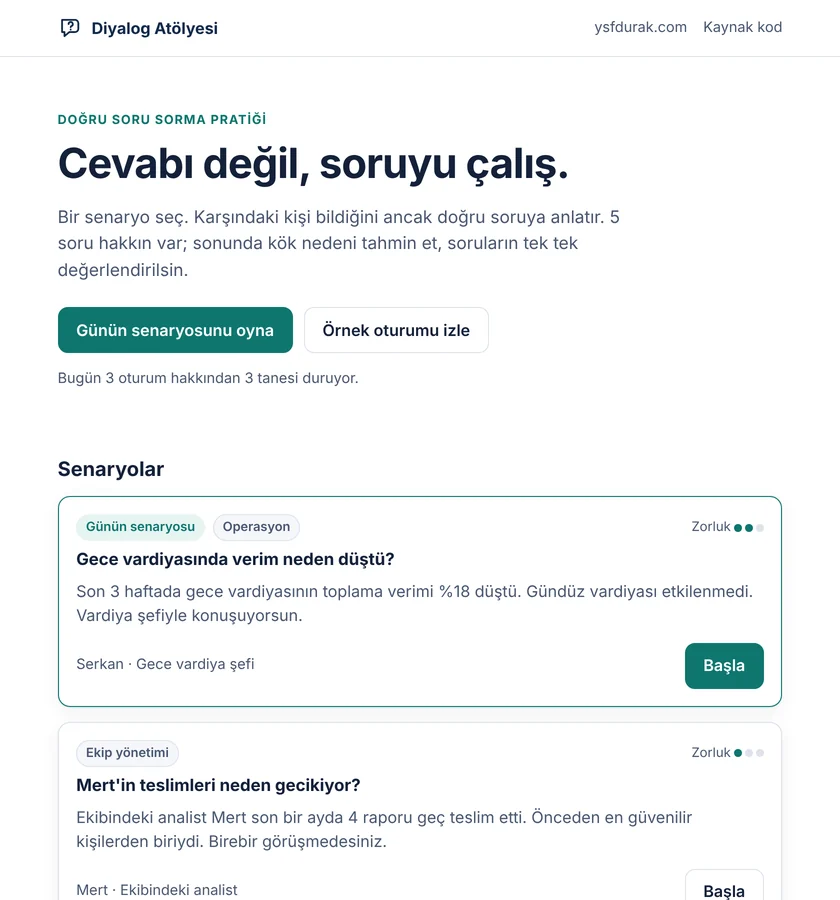
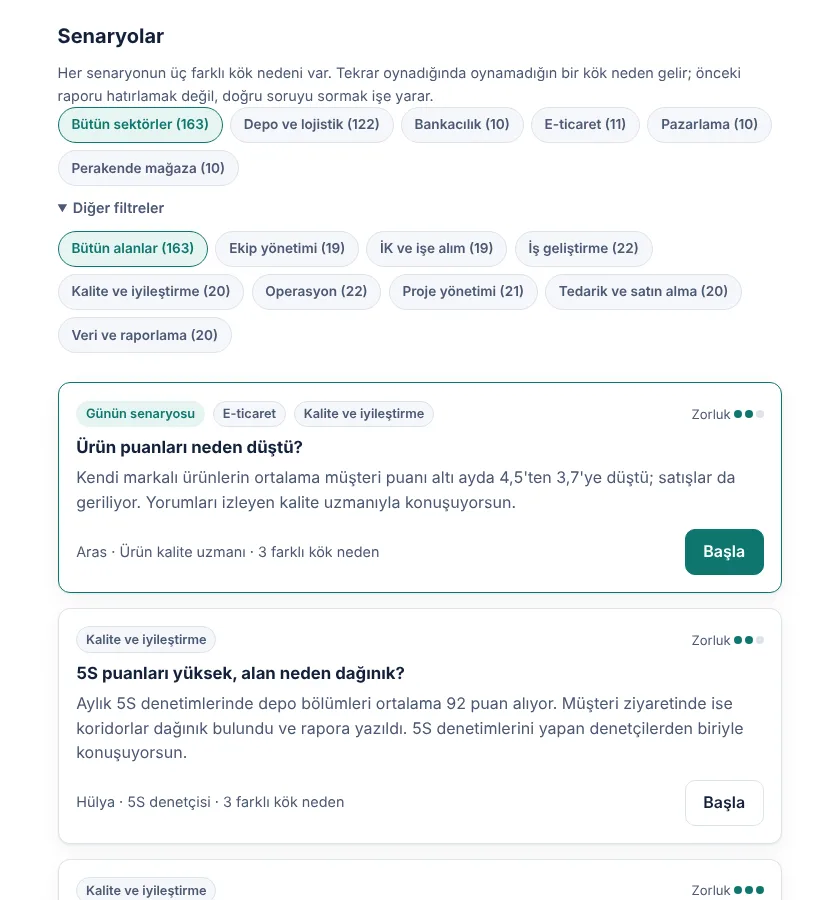
Diyalog proje sayfası güncel: 163 senaryo, üç kök neden, 5 sektör; yeni senaryolar görseli
Claude-Session: https://claude.ai/code/session_01QKvCns8iXs3sbwWEeGJWC1

diff --git a/src/data/projects.ts b/src/data/projects.ts
@@ -679,8 +679,8 @@ export const PROJECTS: Project[] = [
   {
     slug: 'diyalog-atolyesi',
     caseStudy: {
-      tr: { role: 'Fikir, iletişim, liderlik ve doğru soru sorma becerisini çalışabileceğim bir uygulama istememden çıktı. Ürün yönünü bilerek Claude’a bıraktım; ayrı bir uygulama olarak Aday Atölyesi’ne bağlanması, kredi azalınca bildirim gelmesi ve tekrar oynayışta ezberi önleyecek varyant sistemi benim kararlarım; kod yapay zekâ (Claude) ile yazıldı. Pilotta rapor cevabı gösterdiği için ikinci denemenin kolaylaştığını gördüm; aynı senaryoya farklı kök nedenler getiren varyantlar bu yüzden sırada.' },
-      en: { role: 'The idea came from wanting an app to practise communication, leadership and asking the right questions. I deliberately left the product direction to Claude; keeping it a separate app linked to Aday Atölyesi, credit alerts and a variant system against memorising replays are my decisions; the code was written with AI (Claude). In the pilot I saw that the report makes a second attempt easier because it reveals the answer, so variants that give the same scenario different root causes are next.' },
+      tr: { role: 'Fikir, iletişim, liderlik ve doğru soru sorma becerisini çalışabileceğim bir uygulama istememden çıktı. Ürün yönünü bilerek Claude’a bıraktım; ayrı bir uygulama olarak Aday Atölyesi’ne bağlanması, kredi azalınca bildirim gelmesi ve tekrar oynayışta ezberi önleyecek varyant sistemi benim kararlarım; kod yapay zekâ (Claude) ile yazıldı. Pilotta rapor cevabı gösterdiği için ikinci denemenin kolaylaştığını gördüm; bu yüzden her senaryoya üç farklı kök neden eklendi. Senaryo konularını kendi depo deneyimimden ve yaşadığım sorunlardan seçtim; bankacılık, e-ticaret, pazarlama ve perakende senaryoları da ekledik.' },
+      en: { role: 'The idea came from wanting an app to practise communication, leadership and asking the right questions. I deliberately left the product direction to Claude; keeping it a separate app linked to Aday Atölyesi, credit alerts and a variant system against memorising replays are my decisions; the code was written with AI (Claude). In the pilot I saw that the report makes a second attempt easier because it reveals the answer, so every scenario now has three different root causes. I drew the scenario topics from my own warehouse experience and problems I have faced; banking, e-commerce, marketing and retail scenarios were added too.' },
     },
     name: 'Diyalog Atölyesi',
     category: 'ekip',
@@ -697,7 +697,7 @@ export const PROJECTS: Project[] = [
     shots: [
       { src: '/img/diyalog-atolyesi/oturum.webp', w: 840, h: 860, alt: { tr: 'Oturum: durum, rolün ve karşındaki kişi; açık uçlu sorular gizli bilgileri tek tek açıyor, 5 soru hakkı', en: 'Session: the situation, your role and the other person; open questions unlock hidden facts one by one, 5 questions allowed' } },
       { src: '/img/diyalog-atolyesi/rapor.webp', w: 840, h: 860, alt: { tr: 'Rapor: 100 üzerinden skor ve beş boyut (açık uçlu soru, derinleşme, varsayımsız soru, bilgi keşfi, sonuç)', en: 'Report: a score out of 100 and five dimensions (open questions, follow-up depth, no leading questions, facts uncovered, conclusion)' } },
-      { src: '/img/diyalog-atolyesi/senaryolar.webp', w: 840, h: 900, alt: { tr: 'Senaryolar: operasyon, ekip yönetimi ve iş geliştirme; günün senaryosu ve örnek oturum', en: 'Scenarios: operations, team management and business development; scenario of the day and a sample session' } },
+      { src: '/img/diyalog-atolyesi/senaryolar.webp', w: 840, h: 900, alt: { tr: 'Senaryolar: sektör ve alan filtreleri, sektörler arasında dönen günün senaryosu, her kartta üç farklı kök neden', en: 'Scenarios: sector and area filters, a scenario of the day that rotates across sectors, three root causes on every card' } },
     ],
     demo: {
       tr: 'Hesap gerekmez: bir senaryo seç, 5 soru sor, kök nedeni tahmin et; raporda her soru için “şöyle sorabilirdin” önerisi gelir. Günde 3 canlı oturum hakkın var. Yapay zekâ kullanmayan “Örnek oturumu izle” her zaman açık. Konuşma metni kaydedilmez, yalnızca anonim özet tutulur.',
@@ -709,6 +709,7 @@ export const PROJECTS: Project[] = [
         'Sorun çözerken yöneticiler çoğu zaman nedeni baştan varsayar, evet/hayır ya da suçlayan sorular sorar ve asıl bilgiye ulaşamaz. Bu beceri toplantıda değil pratikle gelişir; genel bir sohbet botuyla çalışmak da işe yaramaz, çünkü bot her şeyi anlatır ve iki deneme karşılaştırılamaz.',
       solution: [
         'Senaryo, karakter ve gizli bilgiler: her bilginin bir açılma koşulu var; evet/hayır sorusu kısa, suçlayan soru savunmacı cevap alır',
+        '163 senaryo, her biri üç farklı kök nedenli (489 oturum); 8 yönetim alanı ve 5 sektör (depo ve lojistik, bankacılık, e-ticaret, pazarlama, perakende). Tekrar oynayışta oynanmamış kök neden gelir, rapor ezberlenemez; günün senaryosu sektörler arasında döner',
         '5 soru hakkı, sonunda kök neden tahmini; gizli bilgiler ve kök neden oturum bitene kadar tarayıcıya hiç gönderilmez',
         'Beş boyutlu rubrik: üç boyut kodla, iki boyut yazılı ölçüte göre modelle puanlanır; toplam skor kodla hesaplanır, her soru etiketi raporda görünür',
         'Her soru için “şöyle sorabilirdin” önerisi ve zayıf soruyu yeniden deneme',
@@ -723,6 +724,7 @@ export const PROJECTS: Project[] = [
         'When solving problems, managers often assume the cause up front, ask yes/no or blaming questions and never reach the real information. The skill grows with practice, not in meetings, and a general chatbot does not help: it tells everything, and two attempts cannot be compared.',
       solution: [
         'Scenario, character and hidden facts: each fact has an unlock condition; a yes/no question gets a short answer, a blaming one gets a defensive one',
+        '163 scenarios, each with three different root causes (489 sessions), across 8 management areas and 5 sectors (warehousing and logistics, banking, e-commerce, marketing, retail). A replay brings a root cause you have not played, so the report cannot be memorised; the scenario of the day rotates across sectors',
         '5 questions, then a root-cause guess; hidden facts and the root cause never reach the browser before the session ends',
         'Five-dimension rubric: three dimensions scored in code, two by the model against written criteria; the total is calculated in code and every question label shows in the report',
         'A “you could have asked” suggestion for every question, and a retry for weak ones',
